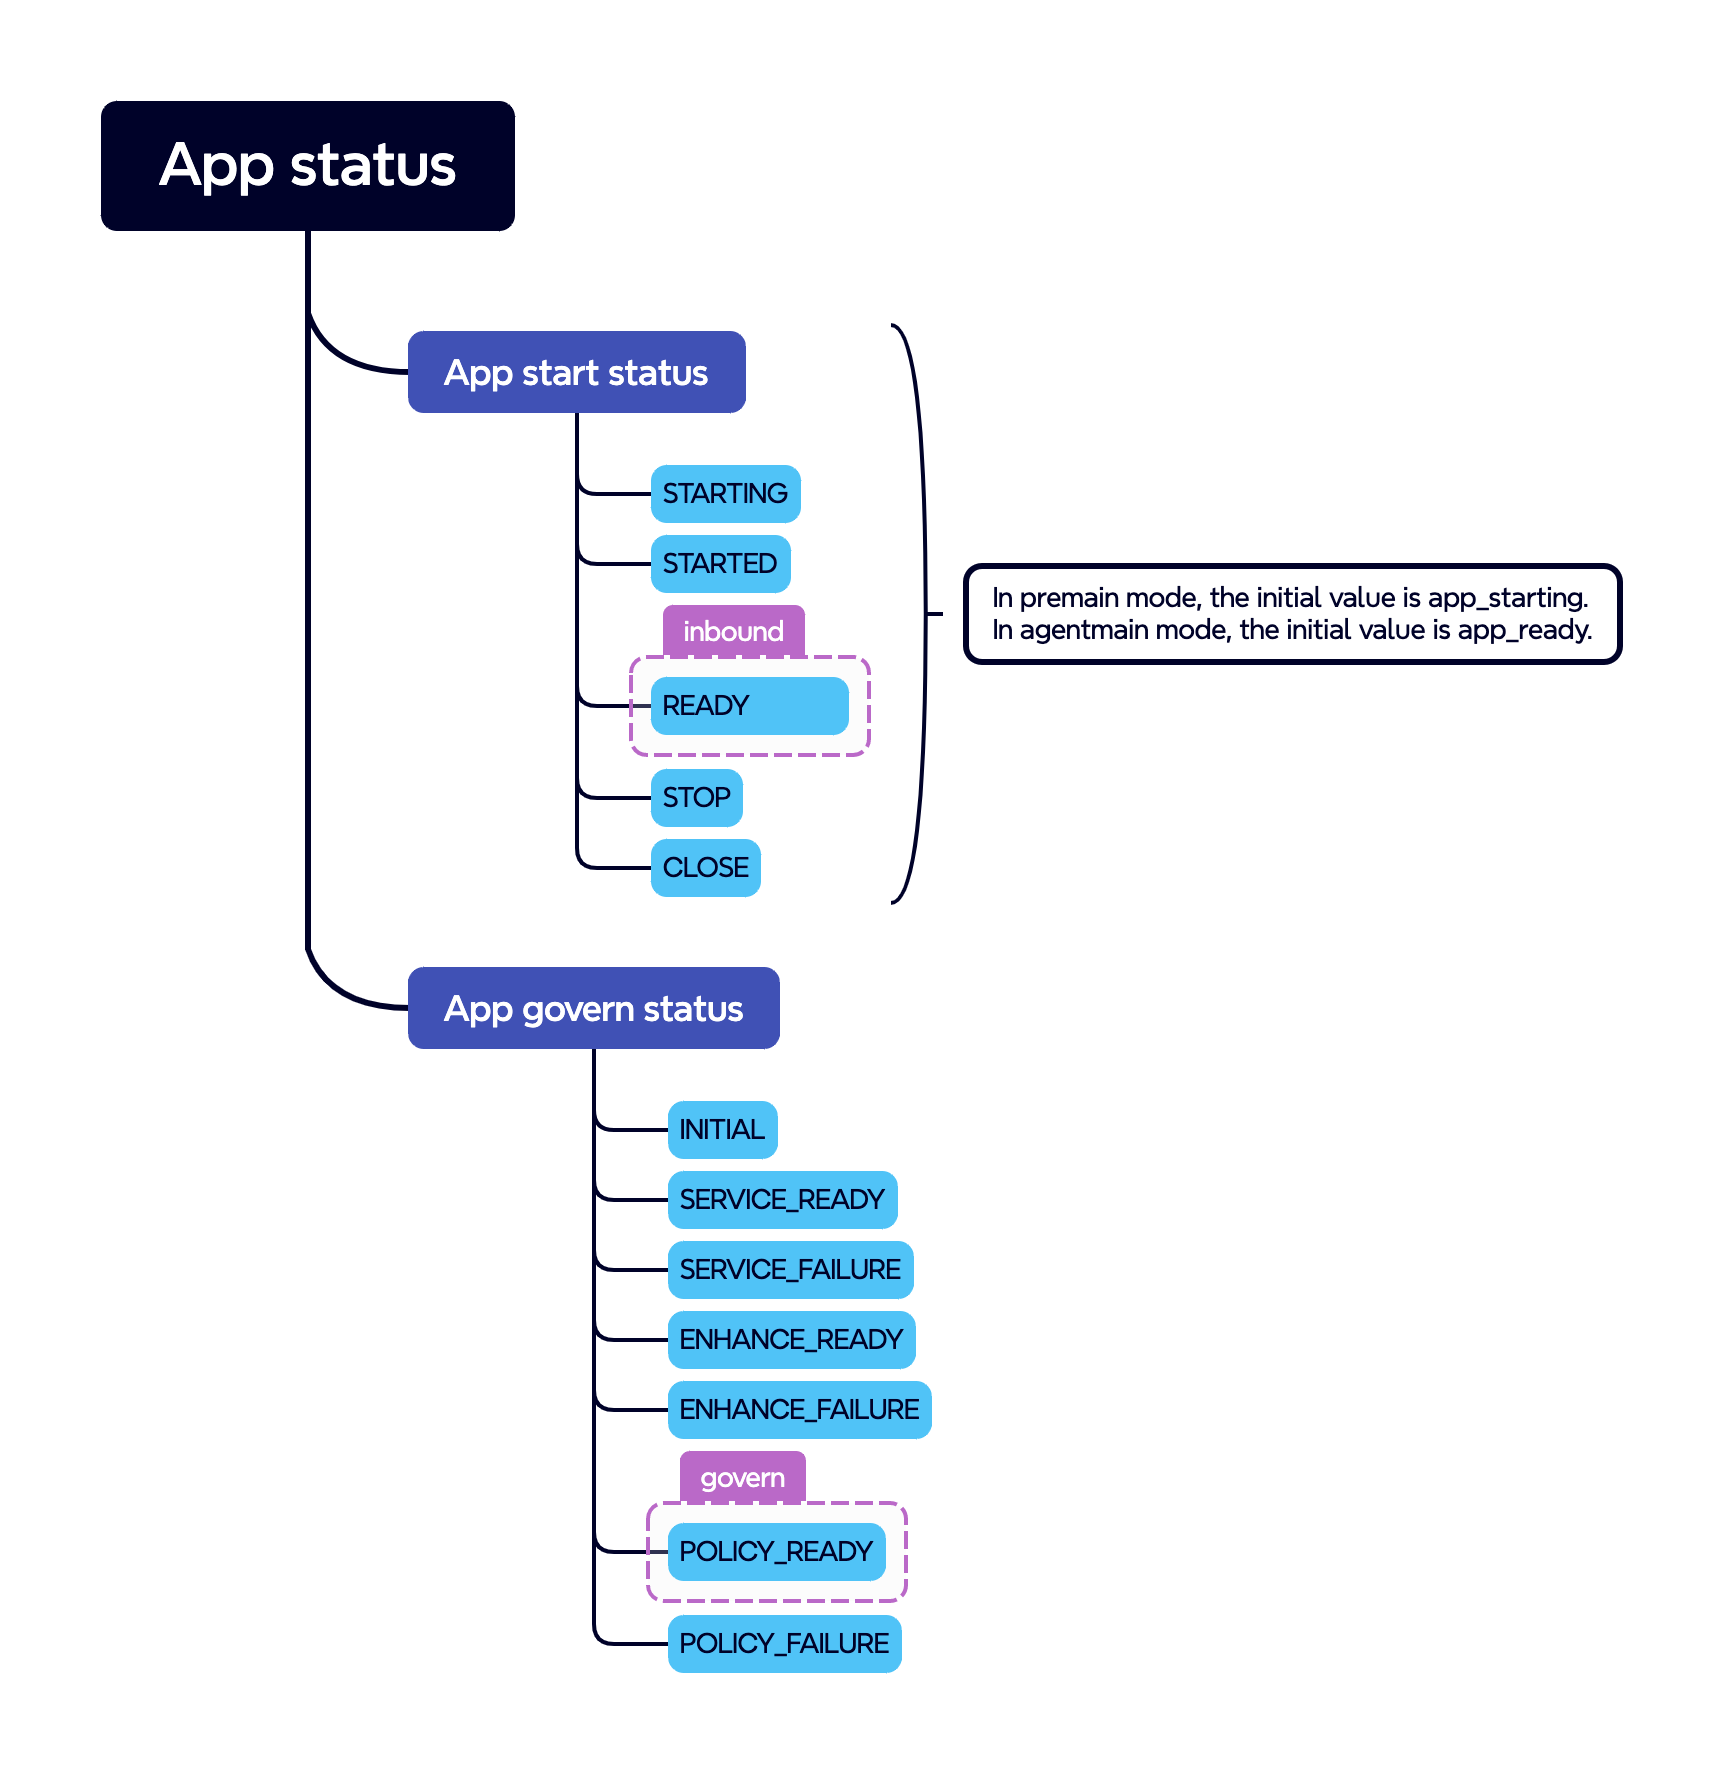
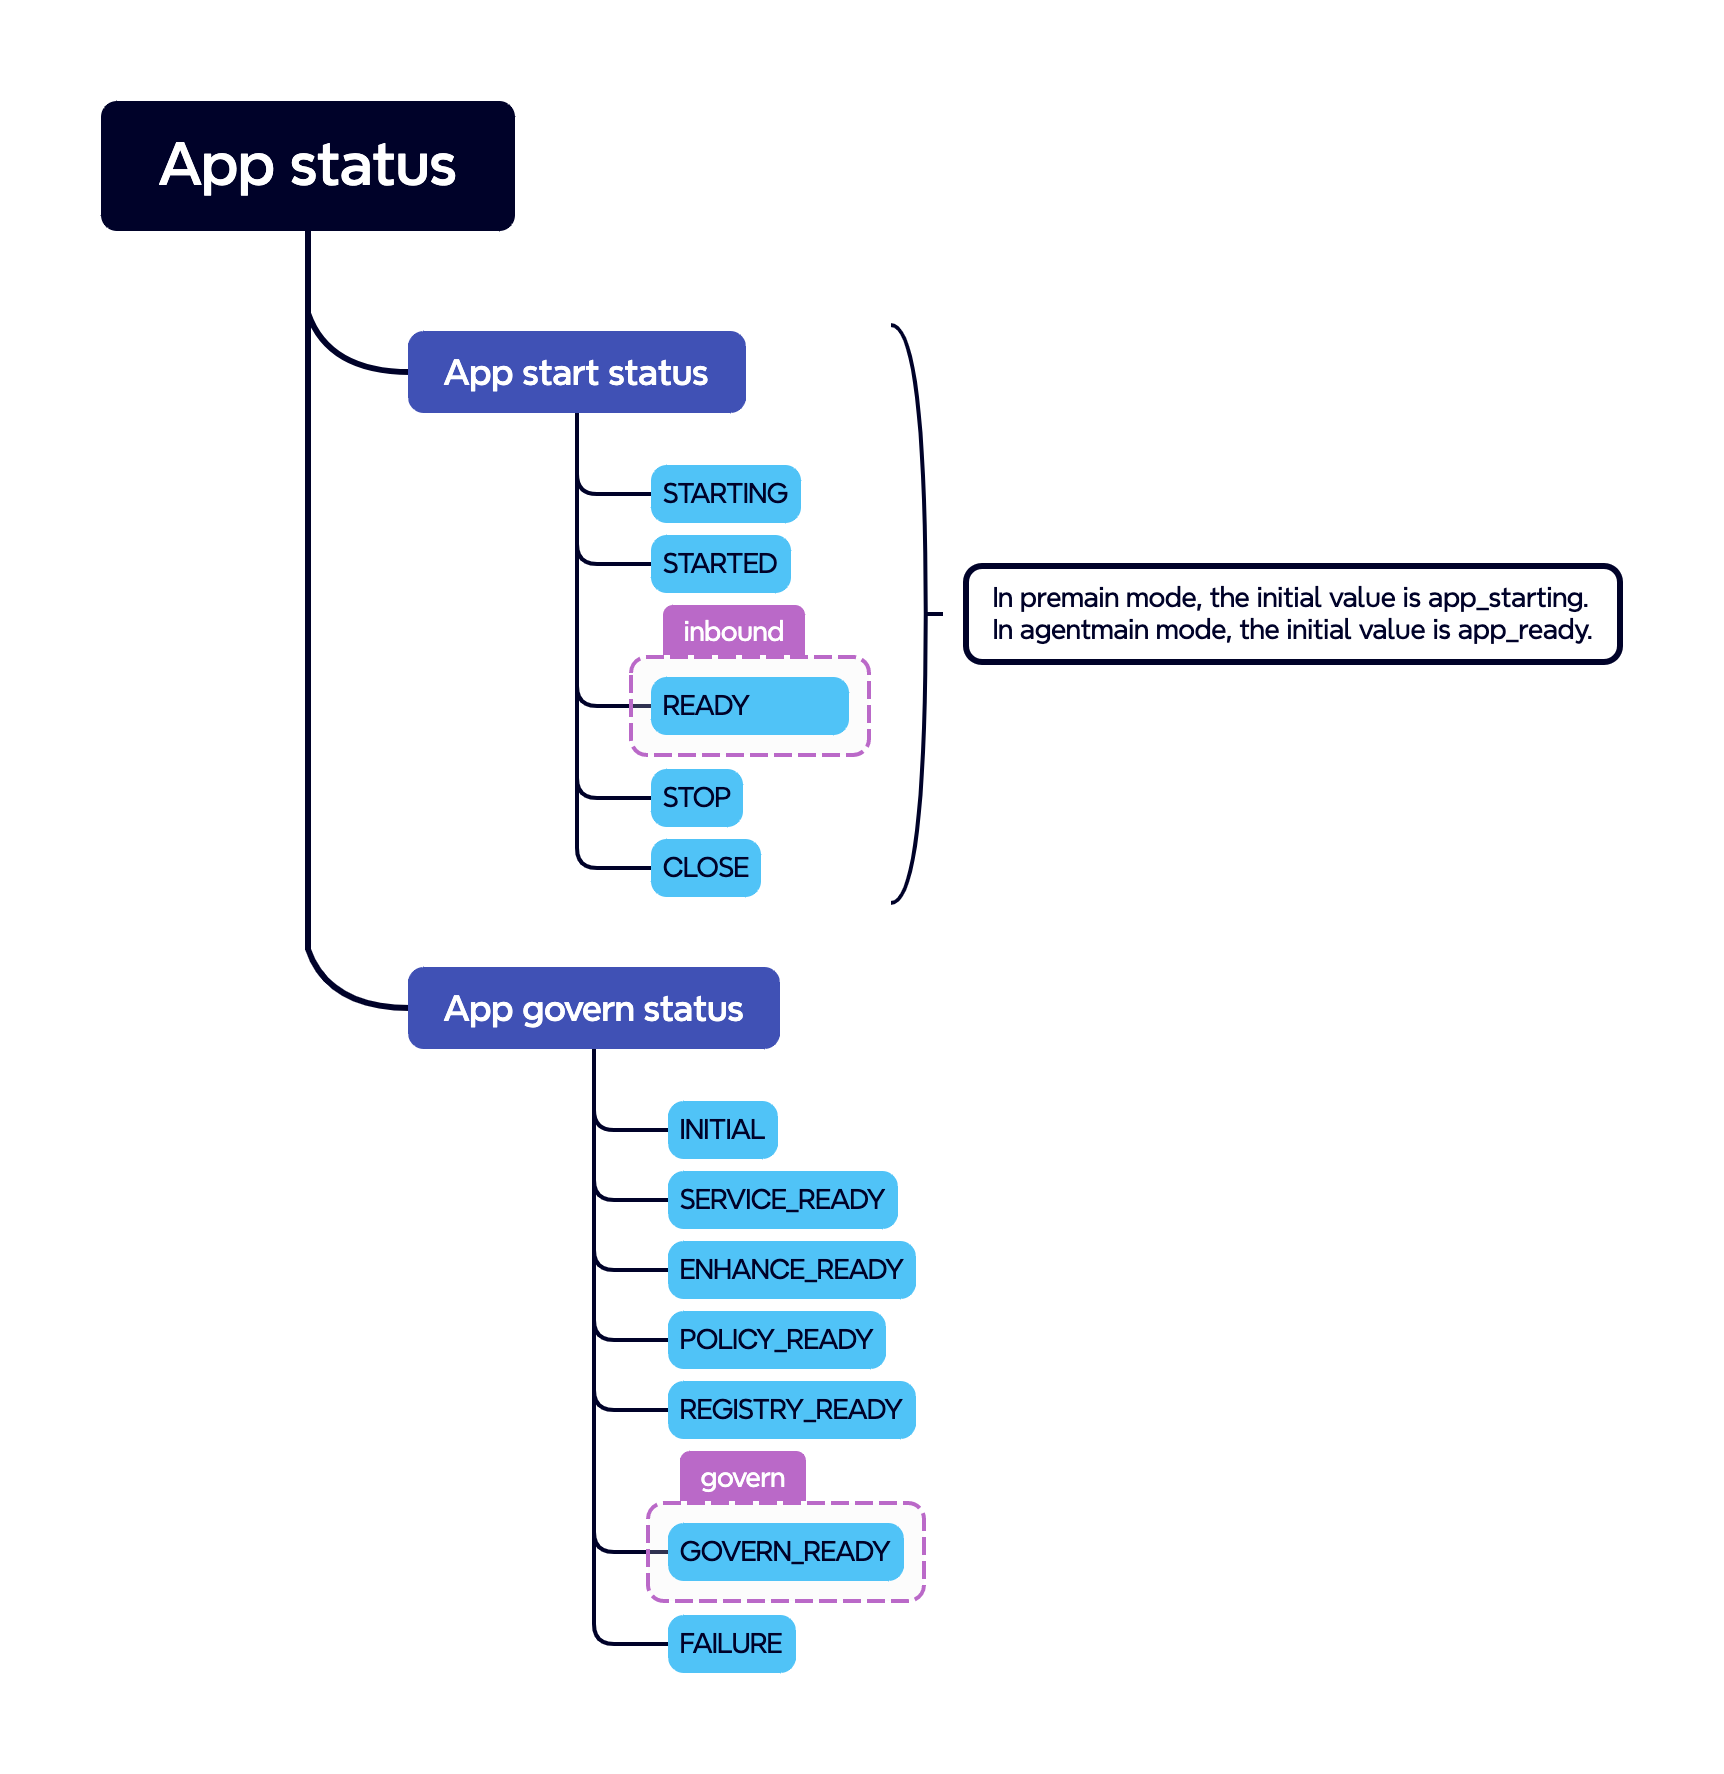
Update 2.0 design

Changed region(s): [[0.3997, 0.7131, 0.5534, 0.8061], [0.3997, 0.8371, 0.5534, 0.9611]]

diff --git a/docs/cn/2.0/design.md b/docs/cn/2.0/design.md
@@ -78,7 +78,24 @@ LivePluginClassLoader  ..>  LiveAppClassLoader
 
 1. 应用启动状态为READY才能入流量
 
-2. 应用治理状态为POLICY_READY才进行流量治理
+2. 应用治理状态为GOVERN_READY才进行流量治理
 
-静态注入时候，在应用状态为STARTED的时候等待策略同步完成，当应用状态为READY的时候，治理状态已经为POLICY_READY
-动态注入时候，应用状态初始化为READY，治理初始状态为INITIAL，这个时候允许流量继续进入，当策略就绪的时候才治理扩展才生效。
+静态注入时候，在应用状态为STARTED的时候等待策略同步完成，当应用状态为READY的时候，治理状态已经为GOVERN_READY
+动态注入时候，应用状态初始化为READY，治理初始状态为INITIAL，这个时候允许流量继续进入，当策略就绪并且重新更新注册后，治理才生效。
+
+## 1.4 应用启动
+
+静态注入Fatjar的时候，需要获取到应用类加载器
+
+动态注入的时候，需要获取到应用上下文，并从中获取到应用提供的服务，便于同步服务的治理策略。同时需要刷新注册中心，注入多活的标签。
+
+设计应用提供者扩展，通过其实现来从感知应用的启动事件。多个提供者可能触发了相同的应用启动事件，需要过滤掉重复的事件。
+
+### 1.4.1 构造函数应用提供者
+
+通过配置某些类型的构造函数，在静态注入时候获取到应用的启动事件
+
+### 1.4.2 配置提供者
+
+拦截配置文件刷新方法，当检测到配置文件，通过触发配置文件更新来获取到应用上下文
+
